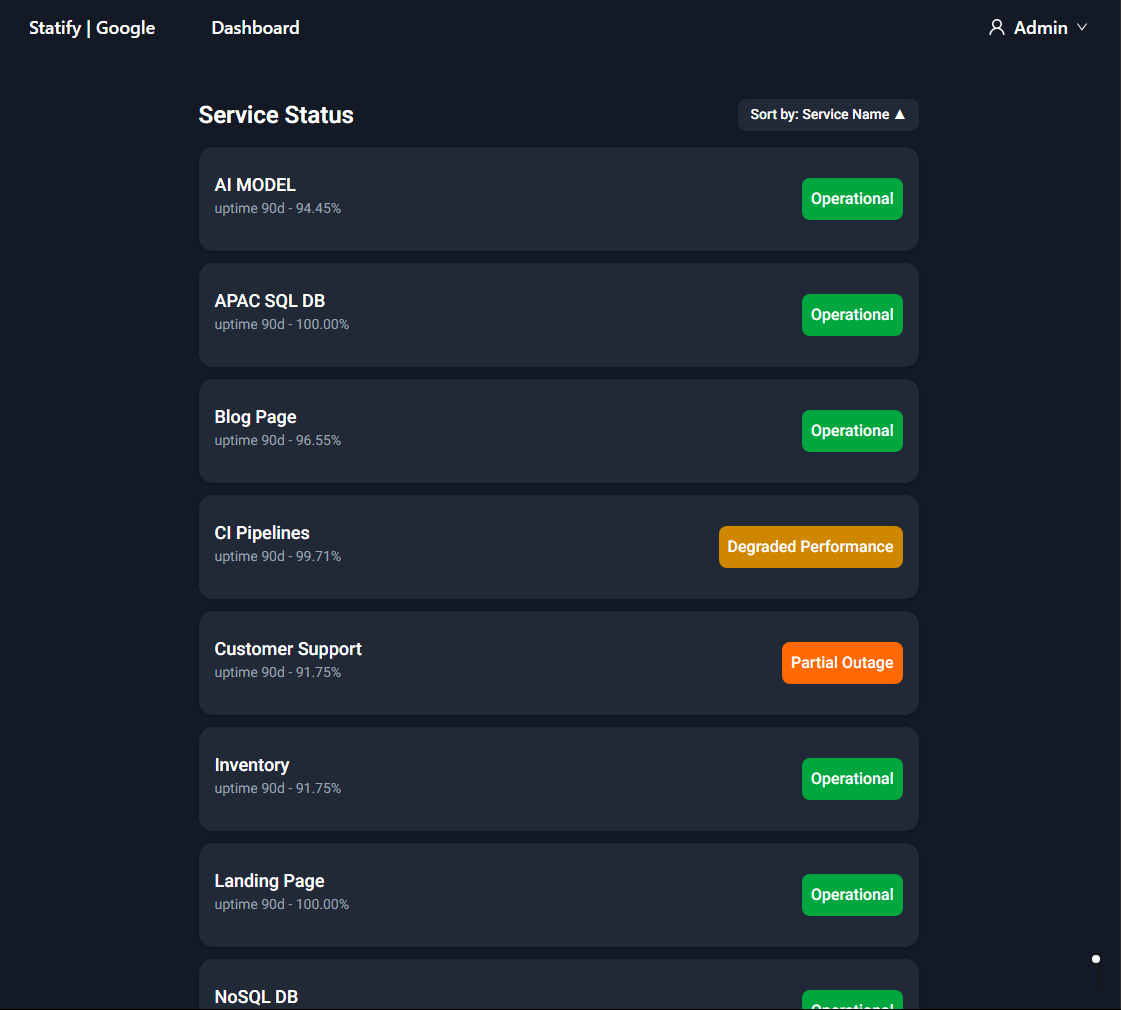
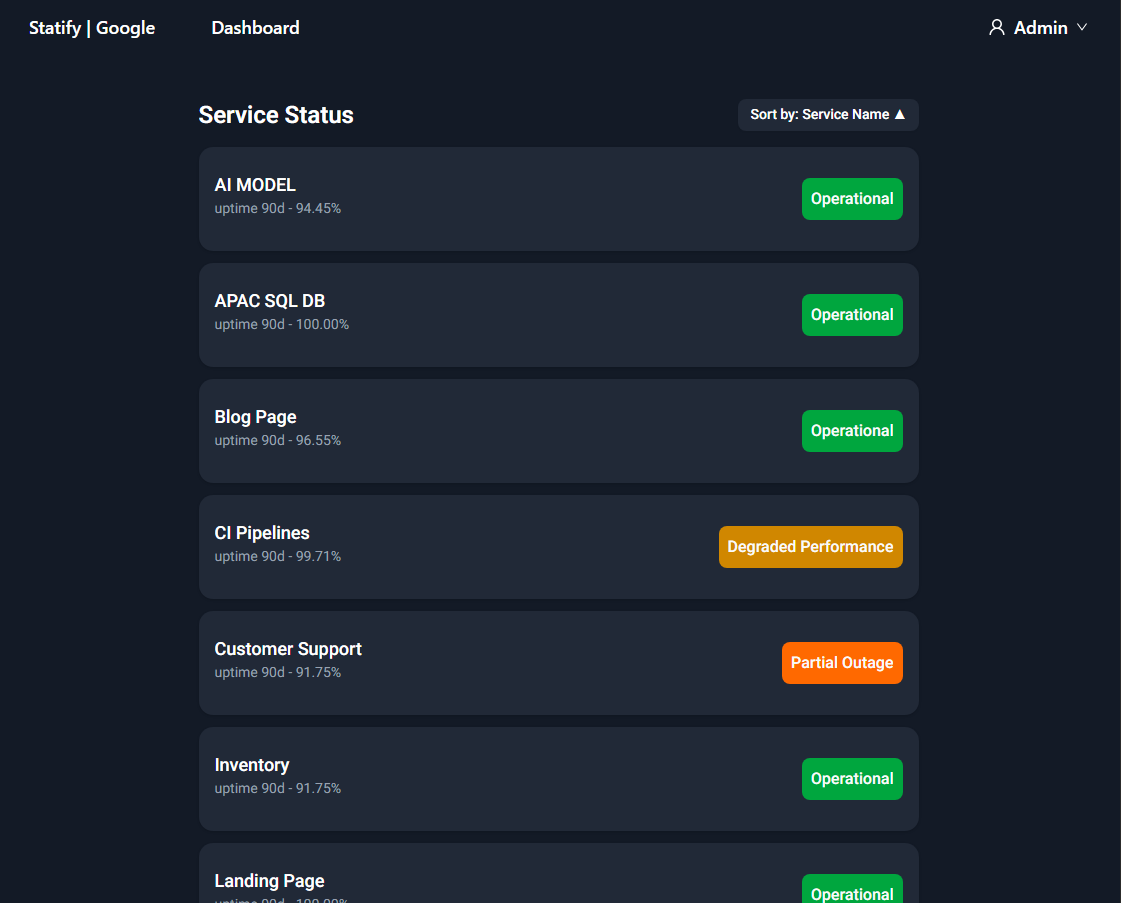
updated: readme

diff --git a/README.md b/README.md
@@ -2,7 +2,10 @@
 
 > Modern service status dashboard — built with Next.js, Tailwind, Redux, and TypeScript.
 
-![Statify UI](./statify-status.png)
+<p float="left">
+  <img src="./statify-status.png" width="45%" />
+  <img src="./statify-incident.png" width="45%" />
+</p>
 
 ## 🚀 Overview
 
